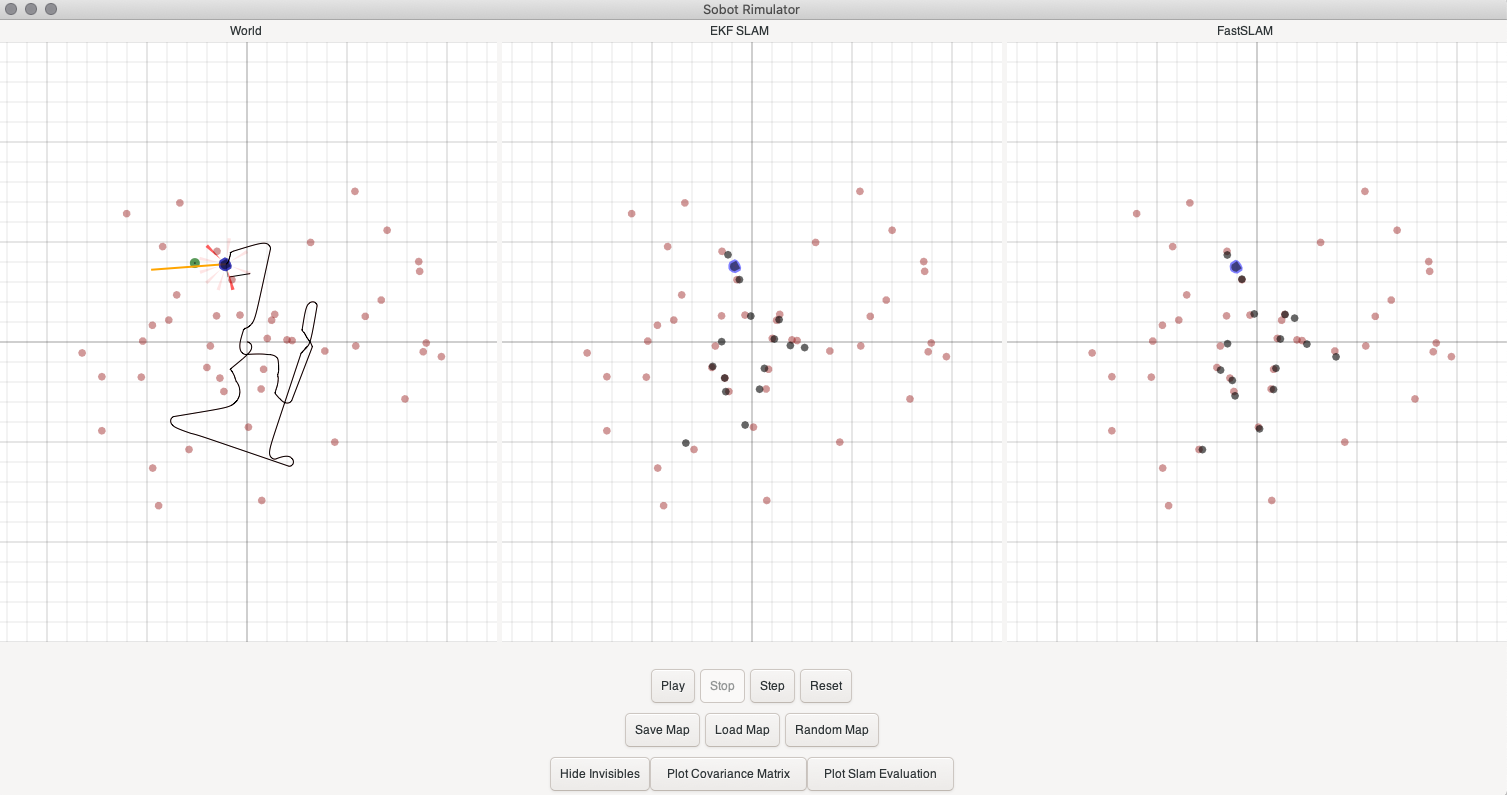
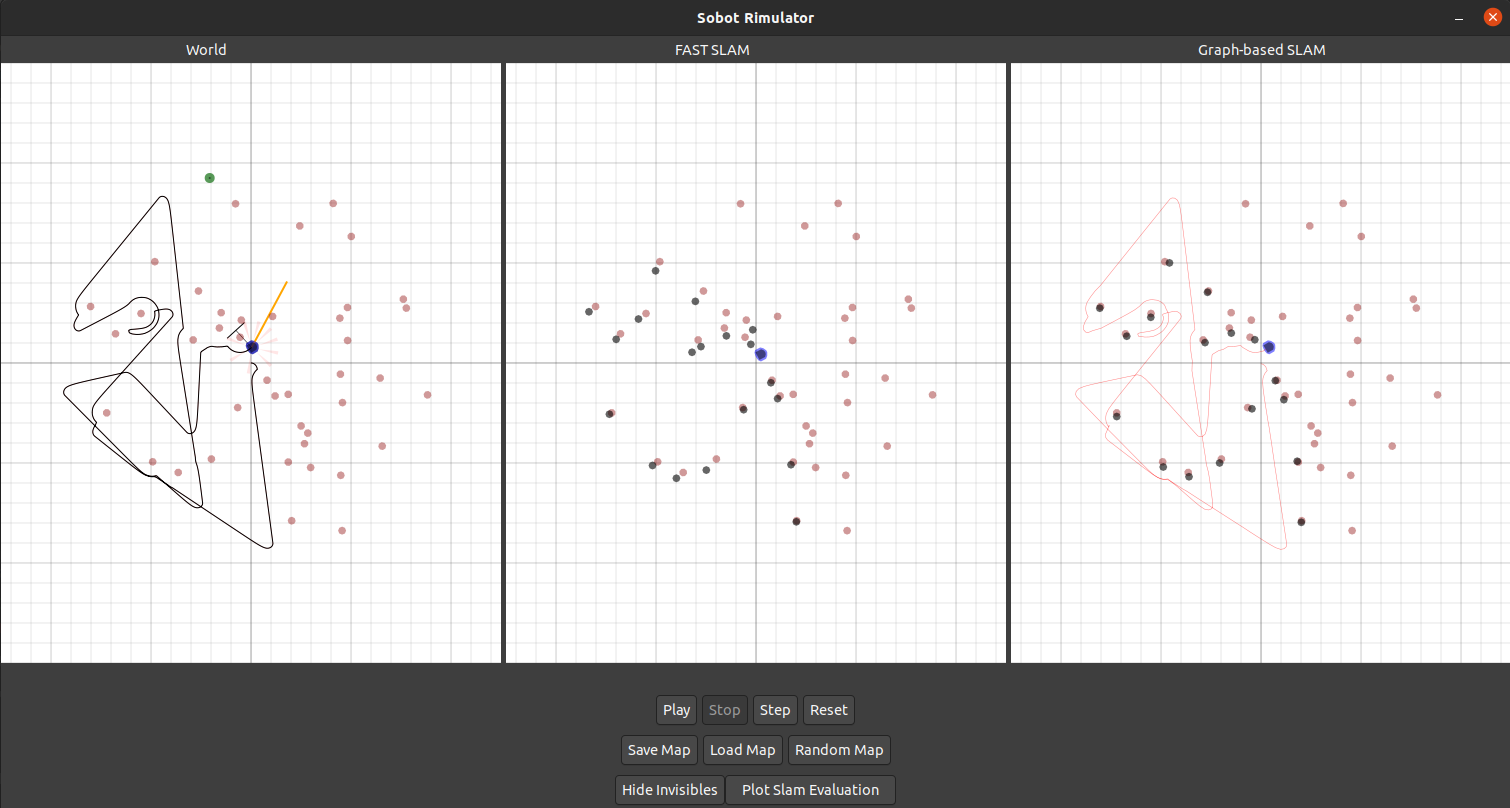
Edit readme.md

diff --git a/readme.md b/readme.md
@@ -1,11 +1,15 @@
 # Sobot Rimulator - A Robot Programming Tool
 
-![Screenshot](documentation/GUI2.png)
+![Screenshot](documentation/GUI.png)
 
 This project is an extension of the [sobot rimulator](https://github.com/nmccrea/sobot-rimulator) developed by Nick McCrea
 which allows the simulation of a mobile robot in a map of obstacles that must be avoided.
-The [extension](https://collaborating.tuhh.de/cva9931/sobot-rimulator) developed by Michael Dobler includes the integration of the EKFSLAM and FastSLAM algorithms to perform an estimation of the current robot state
-and its surrounding environment based on its previous motion commands and proximity sensor readings. In my extension Graph-based SLAM algorithm was integrated. 
+The [extension](https://collaborating.tuhh.de/cva9931/sobot-rimulator) developed by Michael Dobler includes 
+the integration of the EKFSLAM and FastSLAM algorithms to perform an estimation 
+of the current robot state and its surrounding environment based on its previous motion commands 
+and proximity sensor readings. In my extension Graph-based SLAM algorithm was integrated 
+to perform an estimation of the full traverse trajectory of the robot as well as the surrounding environment based on its 
+previous motion commands and the measurements from the sensors and the wheel encoders. 
 
 ## Setup
 
@@ -70,8 +74,9 @@ over the course of the simulation. Only displayed if the SLAM evaluation is enab
 
 ## Configuration
 
-The simulator can be configured by a variety of paramters. The default configuration file is [extension_config.yaml](extension_config.yaml), 
-where all parameters are documented. The configuration file [original_config.yaml](original_config.yaml) does not include
+The simulator can be configured by a variety of paramters. The default configuration file is [config.yaml](config.yaml)
+where all parameters are documented. The configuration file [ekf_fast_skam_config.yaml](ekf_fast_skam_config.yaml) includes 
+an extension of EKFSlam and FastSlam performs completely identical to the sobot rimulator of Michael Dobler. The configuration file [original_config.yaml](original_config.yaml) does not include
 any of the extensions made and performs completely identical to the original sobot rimulator.
 
 The most important parameters in terms of the SLAM algorithms are:
